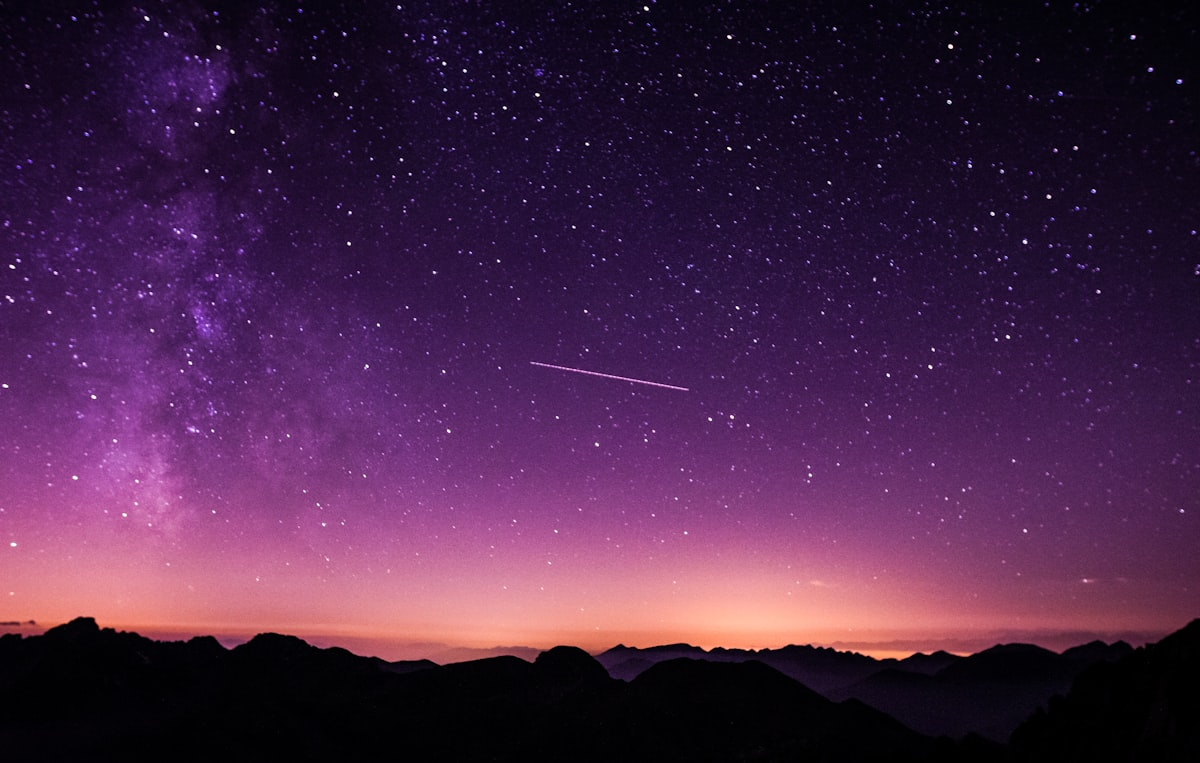
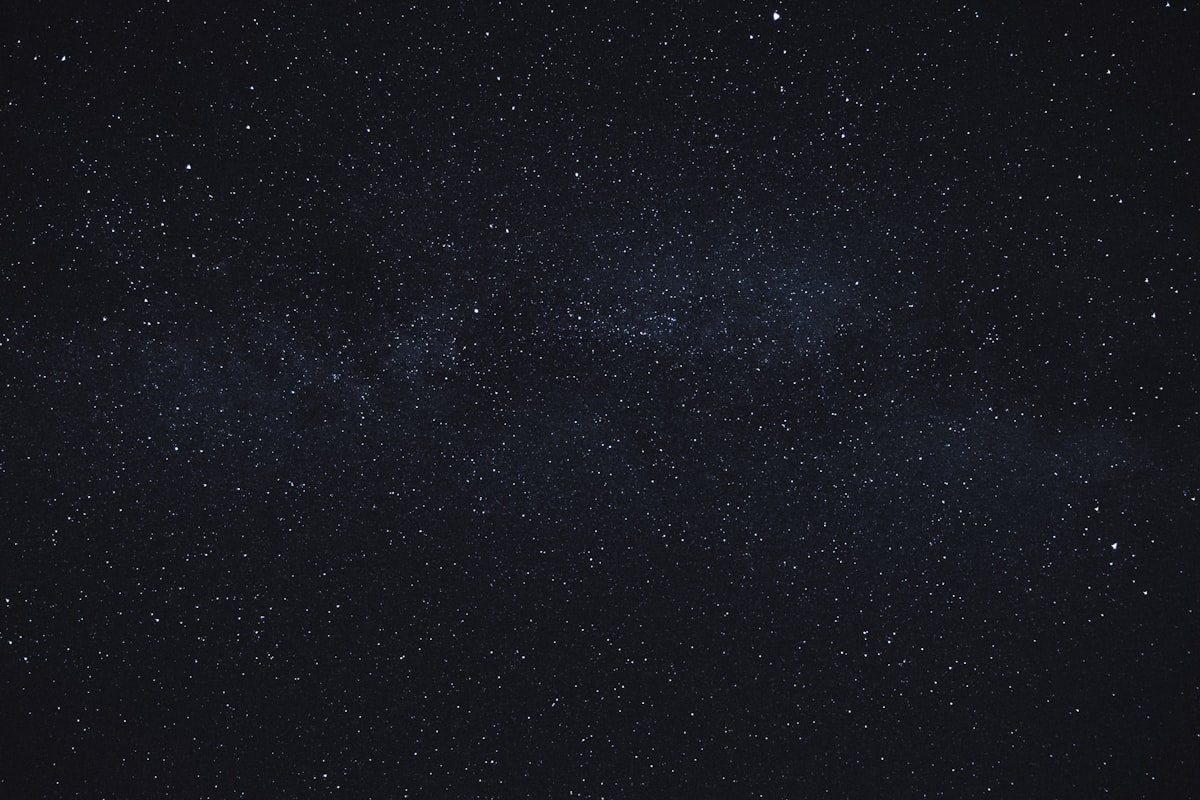
feat: compact volet cards with stretch-open animation, better hero imagery, fix mark-all-read badge
Volet cards
- Shrunk back to the pre-accordion footprint: horizontal row with circular
  thumbnail + title + chevron, ~80 px tall, so the list doesn't dominate the
  Silent Mind / QM screens
- New 'opening' animation: on tap the card stretches vertically (scaleY 1
  -> 1.18) and dims slightly; when the stretch finishes it routes to the
  detail, then springs back to rest. Feels like the card is pulling the
  screen open

Hero images
- sky.jpg: bright blue with punchy cumulus clouds for proper cloud/sky
  contrast (replaces the washed-out pastel sunset)
- space.jpg: pure milky-way starfield, no earth silhouette at the bottom

Mark all as read
- Pill now unions the static bundled ids and the currently-visible remote
  ids before calling markAllSeen, so the tab icon badge actually drops to 0
  (previously remote-only fetch would leave the static items unread and the
  badge stuck at 3)

diff --git a/src/components/VoletCard.tsx b/src/components/VoletCard.tsx
@@ -1,6 +1,9 @@
 import { useEffect } from 'react';
 import { Pressable, View, Text, Image, StyleSheet } from 'react-native';
-import Animated, { useSharedValue, useAnimatedStyle, withRepeat, withSequence, withTiming, Easing, cancelAnimation } from 'react-native-reanimated';
+import Animated, {
+  useSharedValue, useAnimatedStyle,
+  withRepeat, withSequence, withTiming, Easing, cancelAnimation, runOnJS,
+} from 'react-native-reanimated';
 import { useRouter } from 'expo-router';
 import type { Volet } from '../content/catalog';
 import { useProgress } from '../player/progressStore';
@@ -8,19 +11,18 @@ import { colors, radius, spacing, type } from '../theme';
 
 type Props = {
   volet: Volet;
-  /** e.g. '/silent-mind' or '/qm' — the card navigates to `${basePath}/${volet.id}` */
+  /** '/silent-mind' or '/qm' — card routes to `${basePath}/${volet.id}` */
   basePath: '/silent-mind' | '/qm';
-  /** Accent tint — magenta for Silent Mind, teal for QM. Kept inline so the
-   *  component doesn't have to know about theme toggles. */
+  /** Accent tint — magenta for Silent Mind, teal for QM */
   accent?: string;
-  accentRgb?: string; // e.g. '158,54,148' — used for the pulsing border alpha
+  accentRgb?: string;
   secondary?: boolean;
 };
 
 /**
- * Full-bleed card for a program volet. Tapping routes to the detail page.
- * When the card contains the "next" unlistened track, it breathes with a
- * soft accent outline to invite the user in.
+ * Compact horizontal volet card (circle + title + chevron). On tap the card
+ * plays a short "opening" stretch (scaleY 1 → 1.18, then back to 1) while it
+ * routes to the full-page detail, so the transition feels physical.
  */
 export function VoletCard({
   volet,
@@ -32,11 +34,11 @@ export function VoletCard({
   const router = useRouter();
   const nextTrackId = useProgress(s => s.nextTrackId());
   const locked = volet.locked;
-  // Card count + "next" detection is scoped to volet.tracks (the list the
-  // detail page actually renders). qmTracks are shown in the parallel QM tab.
   const tracks = volet.tracks;
+  const playable = tracks.filter(t => !t.comingSoon);
   const containsNext = !!nextTrackId && tracks.some(t => t.id === nextTrackId);
 
+  // Slow breathing outline when this volet owns the next unlistened track
   const pulse = useSharedValue(0);
   useEffect(() => {
     if (containsNext && !locked) {
@@ -45,8 +47,7 @@ export function VoletCard({
           withTiming(1, { duration: 1600, easing: Easing.inOut(Easing.sin) }),
           withTiming(0, { duration: 1600, easing: Easing.inOut(Easing.sin) }),
         ),
-        -1,
-        false,
+        -1, false,
       );
     } else {
       cancelAnimation(pulse);
@@ -67,29 +68,61 @@ export function VoletCard({
     };
   });
 
-  const playable = tracks.filter(t => !t.comingSoon);
+  // Opening animation: vertical stretch then collapse, navigating mid-way.
+  const openY = useSharedValue(1);
+  const openOpacity = useSharedValue(1);
+  const navigate = () => router.push(`${basePath}/${volet.id}` as any);
+
+  const onPress = () => {
+    if (locked) return;
+    openY.value = withSequence(
+      withTiming(1.18, { duration: 160, easing: Easing.out(Easing.cubic) }, (finished) => {
+        if (finished) runOnJS(navigate)();
+      }),
+      withTiming(1, { duration: 220, easing: Easing.in(Easing.cubic) }),
+    );
+    openOpacity.value = withSequence(
+      withTiming(0.85, { duration: 160 }),
+      withTiming(1, { duration: 220 }),
+    );
+  };
+
+  const openStyle = useAnimatedStyle(() => ({
+    transform: [{ scaleY: openY.value }],
+    opacity: openOpacity.value,
+  }));
+
   const countLabel = playable.length > 0
     ? `${playable.length} audio${playable.length > 1 ? 's' : ''}`
     : 'Coming soon';
 
   return (
-    <Animated.View style={[styles.card, secondary && styles.cardSecondary, locked && styles.cardLocked, pulseStyle]}>
+    <Animated.View
+      style={[
+        styles.card,
+        secondary && styles.cardSecondary,
+        locked && styles.cardLocked,
+        pulseStyle,
+        openStyle,
+      ]}
+    >
       <Pressable
-        onPress={() => { if (!locked) router.push(`${basePath}/${volet.id}` as any); }}
+        onPress={onPress}
         style={({ pressed }) => [styles.pressable, pressed && styles.pressed]}
       >
         {volet.image ? (
-          <Image source={volet.image} style={styles.image} resizeMode="cover" />
+          <Image source={volet.image} style={styles.thumb} resizeMode="cover" />
         ) : (
-          <View style={[styles.image, { backgroundColor: colors.bgSoft }]} />
+          <View style={[styles.thumb, { backgroundColor: colors.bgSoft }]} />
         )}
-        <View style={styles.imageOverlay} />
         <View style={styles.body}>
           <Text style={[styles.eyebrow, { color: accent }]}>{volet.title}</Text>
-          {volet.subtitle ? <Text style={styles.title}>{volet.subtitle}</Text> : null}
-          {volet.tagline ? <Text style={styles.tagline}>{volet.tagline}</Text> : null}
-          <Text style={styles.meta}>{countLabel}{locked ? '' : '  →'}</Text>
+          {volet.subtitle ? (
+            <Text style={styles.title} numberOfLines={1}>{volet.subtitle}</Text>
+          ) : null}
+          <Text style={styles.meta}>{countLabel}</Text>
         </View>
+        <Text style={[styles.chevron, { color: accent }]}>{locked ? '' : '→'}</Text>
       </Pressable>
     </Animated.View>
   );
@@ -98,22 +131,32 @@ export function VoletCard({
 const styles = StyleSheet.create({
   card: {
     marginHorizontal: spacing.lg,
-    marginBottom: spacing.md,
+    marginBottom: spacing.sm + 2,
     borderRadius: radius.lg,
-    overflow: 'hidden',
     borderColor: colors.border,
     borderWidth: 1,
     backgroundColor: colors.surface,
+    overflow: 'hidden',
   },
   cardSecondary: { opacity: 0.85 },
   cardLocked: { opacity: 0.45 },
-  pressable: { overflow: 'hidden', borderRadius: radius.lg - 1 },
+  pressable: {
+    flexDirection: 'row',
+    alignItems: 'center',
+    padding: spacing.md,
+    gap: spacing.md,
+  },
   pressed: { opacity: 0.85 },
-  image: { width: '100%', height: 140 },
-  imageOverlay: { ...StyleSheet.absoluteFillObject, height: 140, backgroundColor: 'rgba(0,16,46,0.45)' },
-  body: { padding: spacing.md, gap: 4 },
-  eyebrow: { ...type.overline, fontSize: 11 },
-  title: { ...type.h2, color: colors.text, fontSize: 17, marginTop: 2 },
-  tagline: { ...type.caption, color: colors.textMuted, fontStyle: 'italic' },
-  meta: { ...type.overline, color: colors.textDim, fontSize: 10, marginTop: 6 },
+  thumb: {
+    width: 52,
+    height: 52,
+    borderRadius: 26,
+    borderColor: colors.borderStrong,
+    borderWidth: 1,
+  },
+  body: { flex: 1, gap: 2 },
+  eyebrow: { ...type.overline, fontSize: 10 },
+  title: { ...type.h2, color: colors.text, fontSize: 15 },
+  meta: { ...type.overline, color: colors.textDim, fontSize: 9, marginTop: 2 },
+  chevron: { ...type.display, fontSize: 16, marginLeft: 4 },
 });

diff --git a/app/(tabs)/news.tsx b/app/(tabs)/news.tsx
@@ -37,7 +37,15 @@ export default function NewsScreen() {
           <View style={styles.toolbar}>
             <Text style={styles.toolbarHint}>{unreadCount} unread</Text>
             <Pressable
-              onPress={() => markAllSeen('news', items.map(a => a.id))}
+              onPress={() => {
+                // Mark every known id as seen — current visible items AND the
+                // bundled static list — so the tab badge zeroes out too.
+                const every = Array.from(new Set([
+                  ...newsArticles.map(a => a.id),
+                  ...items.map(a => a.id),
+                ]));
+                markAllSeen('news', every);
+              }}
               hitSlop={8}
               style={({ pressed }) => [styles.markAll, pressed && { opacity: 0.6 }]}
             >

diff --git a/app/(tabs)/video.tsx b/app/(tabs)/video.tsx
@@ -51,7 +51,13 @@ export default function VideoScreen() {
           <View style={styles.toolbar}>
             <Text style={styles.toolbarHint}>{unreadCount} unread</Text>
             <Pressable
-              onPress={() => markAllSeen('media', items.map(v => v.id))}
+              onPress={() => {
+                const every = Array.from(new Set([
+                  ...videoItems.map(v => v.id),
+                  ...items.map(v => v.id),
+                ]));
+                markAllSeen('media', every);
+              }}
               hitSlop={8}
               style={({ pressed }) => [styles.markAll, pressed && { opacity: 0.6 }]}
             >